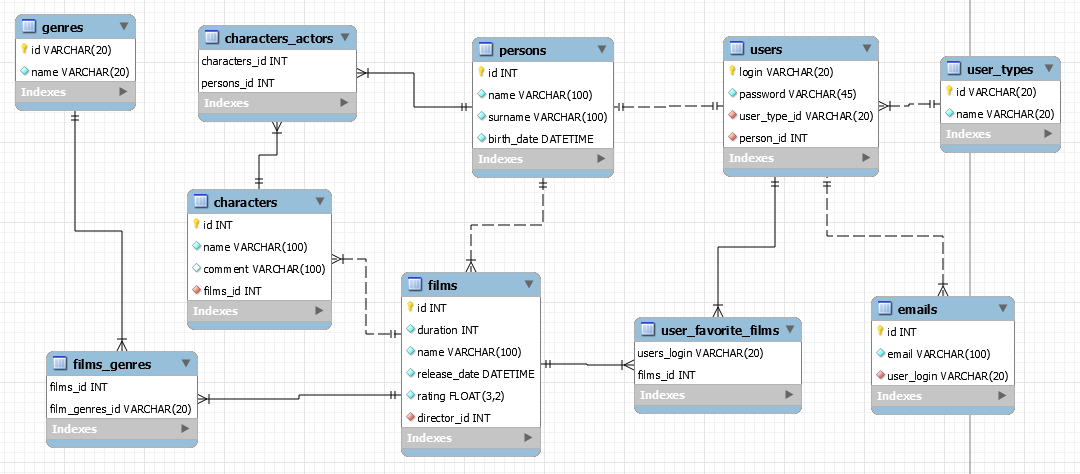
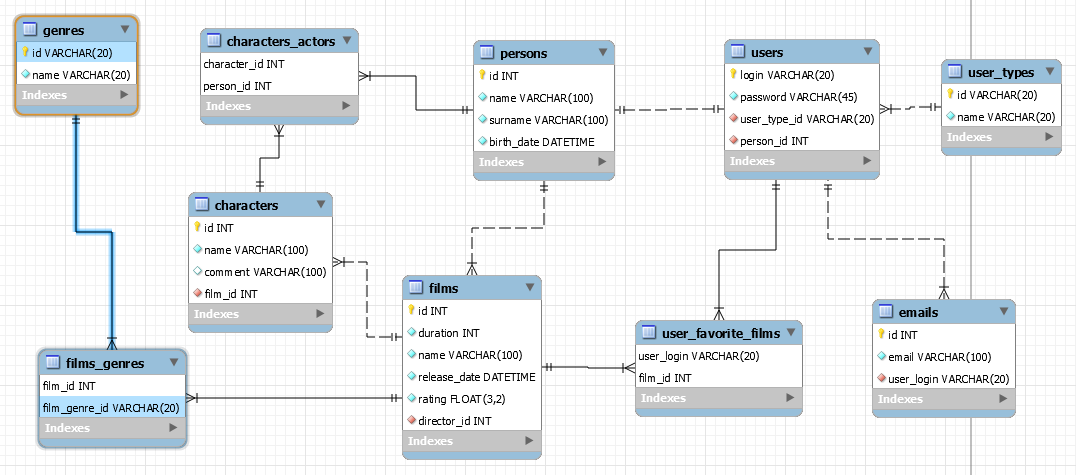
updated schema, added schema description

Changed region(s): [[0.0, 0.0, 1.0, 1.0]]

diff --git a/README.md b/README.md
@@ -2,6 +2,98 @@
 
 ## SQL
 
+Необходимо составить ```init_schema.sql``` файл, который будет создавать
+базу данных ```film_zone``` со следующей структурой.
+
+Описать следующие таблицы:
+
+**persons** - таблица "человек"
+
+* id [```NOT NULL```, ```INT```, ```PRIMARY KEY```, ```AUTOINCREMENT```] - уникальный идентификатор человека
+* name [```NOT NULL```, ```VARCHAR```] - имя человека
+* surname [```NOT NULL```, ```VARCHAR```] - фамилия человека
+* birth_date [```NOT NULL```, ```DATETIME```] - дата рождения человека
+
+**user_types** - таблица "типы пользователей"
+
+* id [```NOT NULL```, ```VARCHAR```, ```PRIMARY KEY```] - уникальный идентификатор типа пользователя
+* name [```NOT NULL```, ```VARCHAR```] - название типа пользователя
+
+Вставить в таблицу ```user_types``` следующие значения:
+
+* USER - User 
+* ADMIN - Administrator
+
+**users** - таблица "пользователи"
+
+* login [```NOT NULL```, ```VARCHAR```, ```PRIMARY KEY```] - логин пользователя
+* password [```NOT NULL```, ```VARCHAR```] - пароль пользователя
+* user_type_id [```NOT NULL```, ```VARCHAR```, ```REFERENCES user_types(id)```] - тип пользователя
+* person_id [```NOT NULL```, ```INT```, ```REFERENCES persons(id)```] - данные пользователя
+
+**emails** - таблица "emailы пользователей"
+
+* id [```NOT NULL```, ```INT```, ```PRIMARY KEY```, ```AUTOINCREMENT```] - уникальный идентификатор email
+* email ```[NOT NULL```, ```VARCHAR```] - email пользователя
+* user_login [```NOT NULL```, ```VARCHAR```, ```REFERENCES users(login)```] - логин пользователя
+
+**genres** - таблица "жанры фильмов"
+
+* id [```NOT NULL```, ```VARCHAR```, ```PRIMARY KEY```] - уникальный идентификатор жанра фильма
+* name [```NOT NULL```, ```VARCHAR```] - название жанра фильма
+
+Вставить в таблицу ```genres``` следующие значения:
+
+* ACTION - Action 
+* ADVENTURE - Adventure 
+* COMEDY - Comedy
+* DRAMA - Drama
+* CRIME - Crime
+* SCI_FI - sci-fi  
+* FANTASY - fantasy
+* MUSICAL - Musical 
+* WESTERN - Western  
+* POST_APOCALYPTIC - Post-apocalyptic  
+* WAR - War 
+* FAMILY - Family film 
+* LOVE - Love story
+* CARTOON - Cartoon
+* HORROR - Horror 
+* THRILLER - Thriller  
+* DOCUMENTARY - Documentary
+
+**films** - таблица "фильмы""
+
+* id [```NOT NULL```, ```INT```, ```PRIMARY KEY```, ```AUTOINCREMENT```] - уникальный идентификатор фильма
+* duration [```NOT NULL```, ```INT```] - длительность фильма в секундах
+* name [```NOT NULL```, ```VARCHAR```] - название фильма
+* release_date [```NOT NULL```, ```DATETIME```] - дата выхода
+* rating [```NOT NULL```, ```FLOAT```] - рейтинг фильма
+* director_id [```NOT NULL```, ```INT```, ```REFERENCES persons(id)```] - режиссер фильма
+
+**user_favorite_films** - MM связь "любимые фильмы пользователя"
+
+* user_login [```NOT NULL```, ```VARCHAR```, ```REFERENCES users(login)```] - логин пользователя
+* film_id [```NOT NULL```, ```INT```, ```REFERENCES films(id)```] - id фильма
+
+**films_genres** - MM связь "жанры фильмов"
+
+* film_id [```NOT NULL```, ```INT```, ```REFERENCES films(id)```] - id фильма
+* film_genre_id [```NOT NULL```, ```VARCHAR```, ```REFERENCES genres(id)```] - id жанра
+
+**characters** - таблица "персонажи фильмов"
+ 
+* id [```NOT NULL```, ```INT```, ```PRIMARY KEY```, ```AUTOINCREMENT```] - уникальный идентификатор персонажа
+* name [```NOT NULL```, ```VARCHAR```] - имя персонажа
+* comment [```VARCHAR```] - комментарий
+* film_id [```NOT NULL```, ```INT```, ```REFERENCES films(id)```] - id фильма
+
+**characters_actors** - MM связь "актеры, играющие персонажей"
+
+* character_id [```NOT NULL```, ```INT```, ```REFERENCES characters(id)```] - id персонажа
+* person_id [```NOT NULL```, ```INT```, ```REFERENCES persons(id)```] - id человека
+
+
 ***
 
 Полученная схема должна выглядеть следующим образом:
